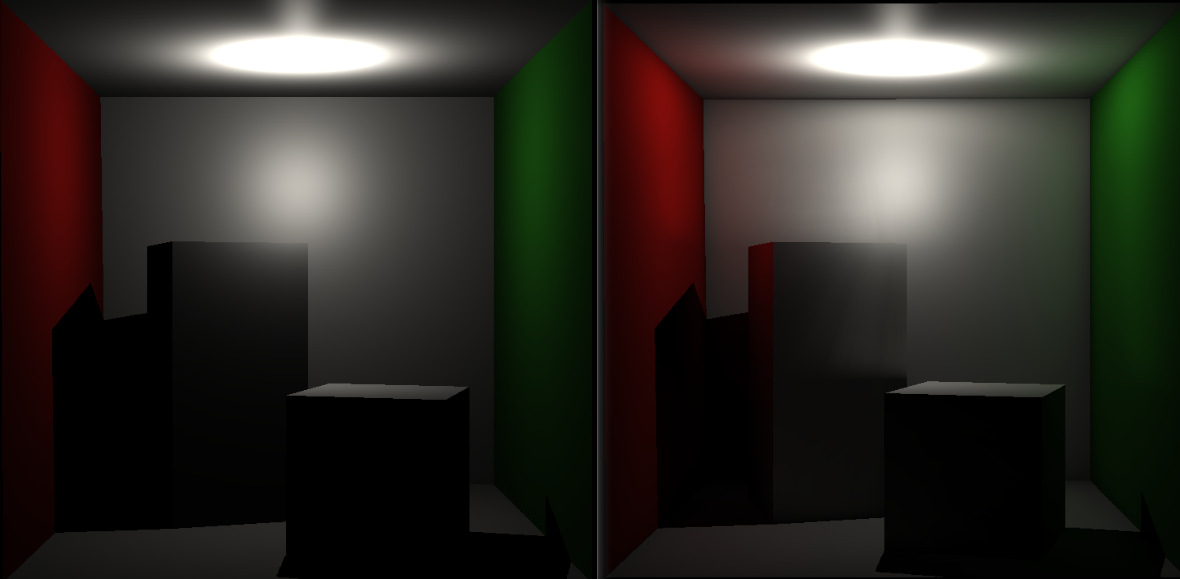
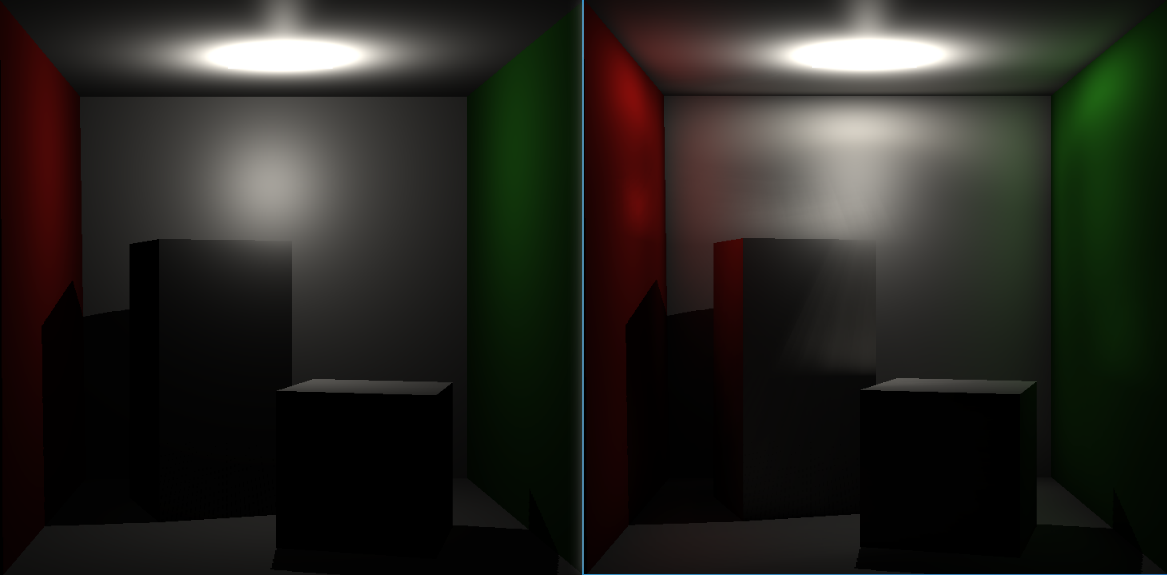
进一步完善了readme文档

diff --git a/README.md b/README.md
@@ -5,10 +5,14 @@
 ## 效果
 
 下图中左侧为RSM OFF，右侧位RSM ON
+
 ![对比图](data/images/screenshot_1.png)
 
 下图为仅渲染间接光照的效果图（已调大亮度显示）
 ![对比图](data/images/screenshot_2.png)
+
+下图显示了不同采样数对于渲染效果的影响（Sample Num = 25/54/144）
+![对比图](data/images/screenshot_3.png)
 
 ## 说明
 
